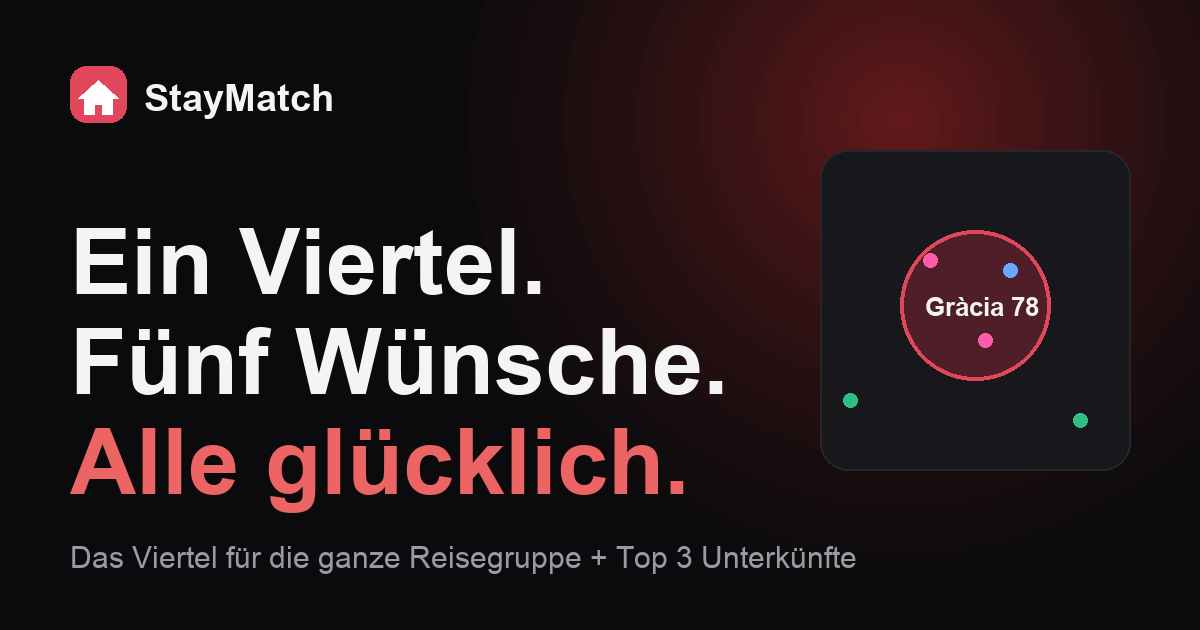
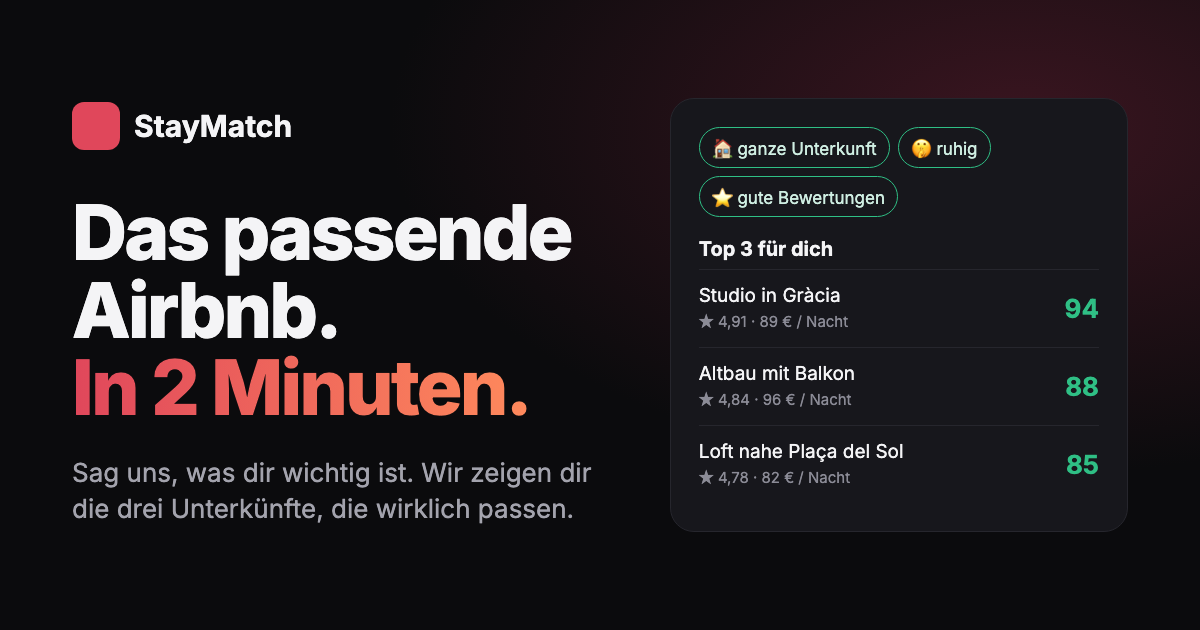
og.png für Einzelreisende neu (Quelle: scripts/og/og.html)

diff --git a/scripts/og/og.html b/scripts/og/og.html
@@ -1,0 +1,21 @@
+<!doctype html><html><head><meta charset="utf-8"><style>
+@font-face{font-family:Inter;font-weight:100 900;src:url(../../web/fonts/inter-latin.woff2) format('woff2')}
+*{margin:0;box-sizing:border-box}
+body{width:1200px;height:630px;background:radial-gradient(900px 500px at 85% 20%,#3a1520,#0b0b0d 70%);color:#f4f4f6;font-family:Inter,sans-serif;display:flex;padding:72px;gap:56px;align-items:center}
+.l{flex:1.15}.logo{display:flex;align-items:center;gap:14px;font-size:30px;font-weight:700;margin-bottom:44px}
+.logo i{width:48px;height:48px;border-radius:12px;background:#e0475b;display:block}
+h1{font-size:76px;line-height:1.02;letter-spacing:-2.5px;font-weight:800}
+h1 em{font-style:normal;background:linear-gradient(90deg,#e0475b,#ff8a5c);-webkit-background-clip:text;color:transparent}
+p{margin-top:28px;font-size:26px;color:#a3a3ad;line-height:1.4}
+.card{flex:.85;background:#17171c;border:1px solid #26262d;border-radius:24px;padding:28px}
+.chips{display:flex;flex-wrap:wrap;gap:8px;margin-bottom:20px}.chips span{border:1px solid #2fbf85;color:#cfeee2;border-radius:99px;padding:6px 12px;font-size:17px}
+.t{font-size:20px;font-weight:700;margin-bottom:8px}.row{display:flex;justify-content:space-between;align-items:center;border-top:1px solid #26262d;padding:14px 0;font-size:19px}
+.row b{color:#2fbf85;font-size:26px}.row small{display:block;color:#8b8b96;font-size:15px;margin-top:3px}
+</style></head><body>
+<div class="l"><div class="logo"><i></i>StayMatch</div><h1>Das passende Airbnb.<br><em>In 2 Minuten.</em></h1><p>Sag uns, was dir wichtig ist. Wir zeigen dir die drei Unterkünfte, die wirklich passen.</p></div>
+<div class="card"><div class="chips"><span>🏠 ganze Unterkunft</span><span>🤫 ruhig</span><span>⭐ gute Bewertungen</span></div>
+<div class="t">Top 3 für dich</div>
+<div class="row"><div>Studio in Gràcia<small>★ 4,91 · 89 € / Nacht</small></div><b>94</b></div>
+<div class="row"><div>Altbau mit Balkon<small>★ 4,84 · 96 € / Nacht</small></div><b>88</b></div>
+<div class="row"><div>Loft nahe Plaça del Sol<small>★ 4,78 · 82 € / Nacht</small></div><b>85</b></div></div>
+</body></html>

diff --git a/web/index.html b/web/index.html
@@ -18,7 +18,7 @@
 <meta property="og:image" content="https://staymatch-tau.vercel.app/og.png">
 <meta property="og:image:width" content="1200">
 <meta property="og:image:height" content="630">
-<meta property="og:image:alt" content="StayMatch: Ein Viertel. Fünf Wünsche. Alle glücklich.">
+<meta property="og:image:alt" content="StayMatch: Das passende Airbnb. In 2 Minuten.">
 <meta name="twitter:card" content="summary_large_image">
 <meta name="twitter:title" content="StayMatch – das Viertel, in dem alle glücklich sind">
 <meta name="twitter:description" content="Der Kompromiss für eure Reisegruppe, fair gerechnet. Kostenlos und Open Source.">
